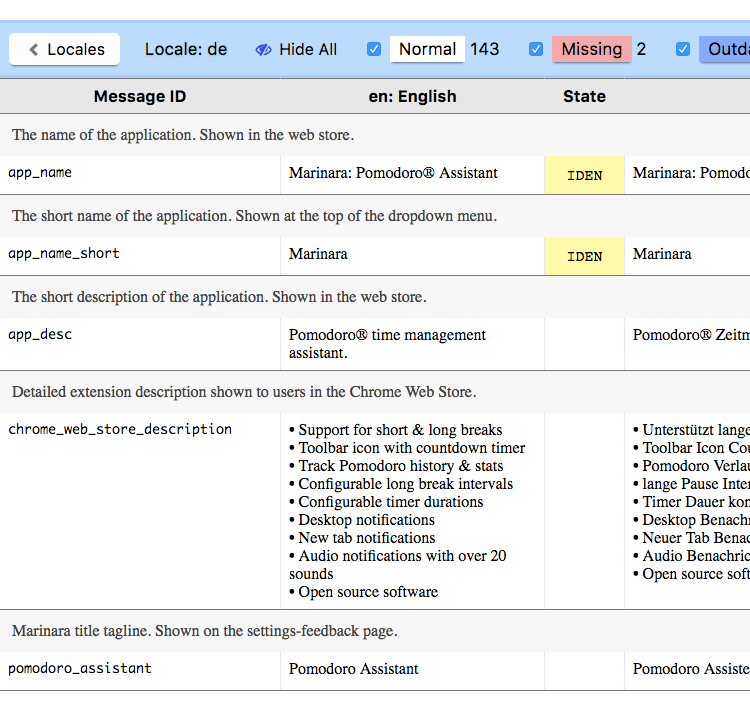
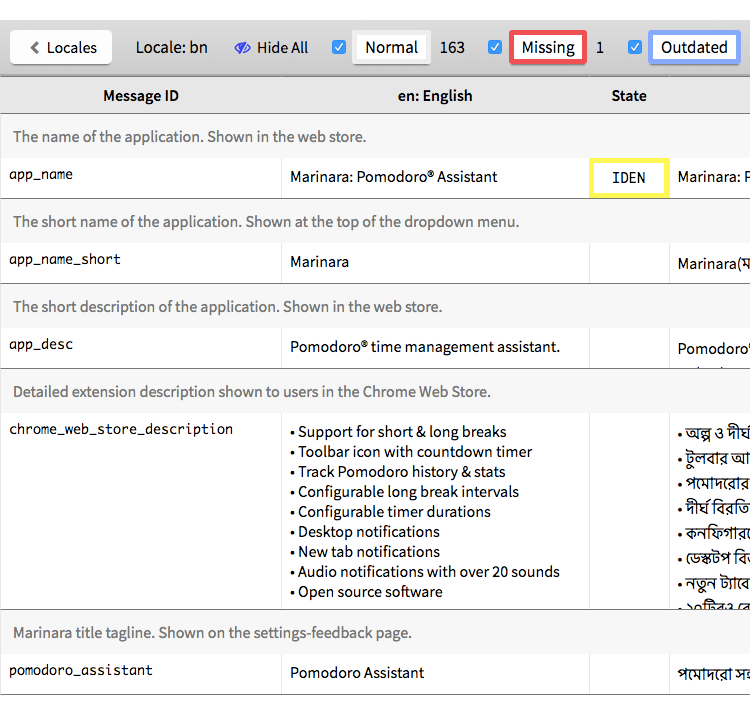
Tweak style. Update locale editor screenshots.

diff --git a/web/style.css b/web/style.css
@@ -119,7 +119,7 @@ input[type="checkbox"] {
 }
 .messages {
   display: grid;
-  grid-template-columns: auto 30fr 80px 70fr;
+  grid-template-columns: auto 40fr 80px 60fr;
   grid-auto-rows: auto;
 }
 .cell {
@@ -148,7 +148,7 @@ input[type="checkbox"] {
   grid-column: 1 / span 4;
   background: #f7f7f7;
   padding: 12px;
-  color: #444;
+  color: #777;
 }
 .show-messages {
   font-size: 20px;
